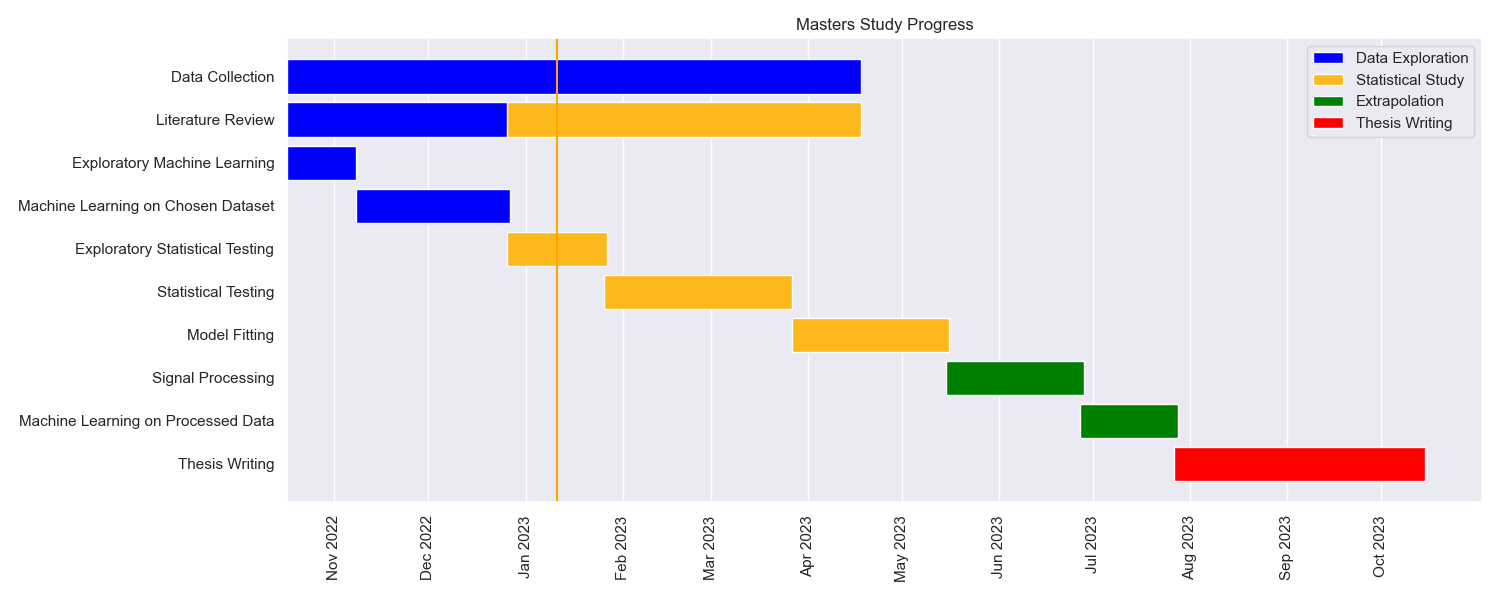
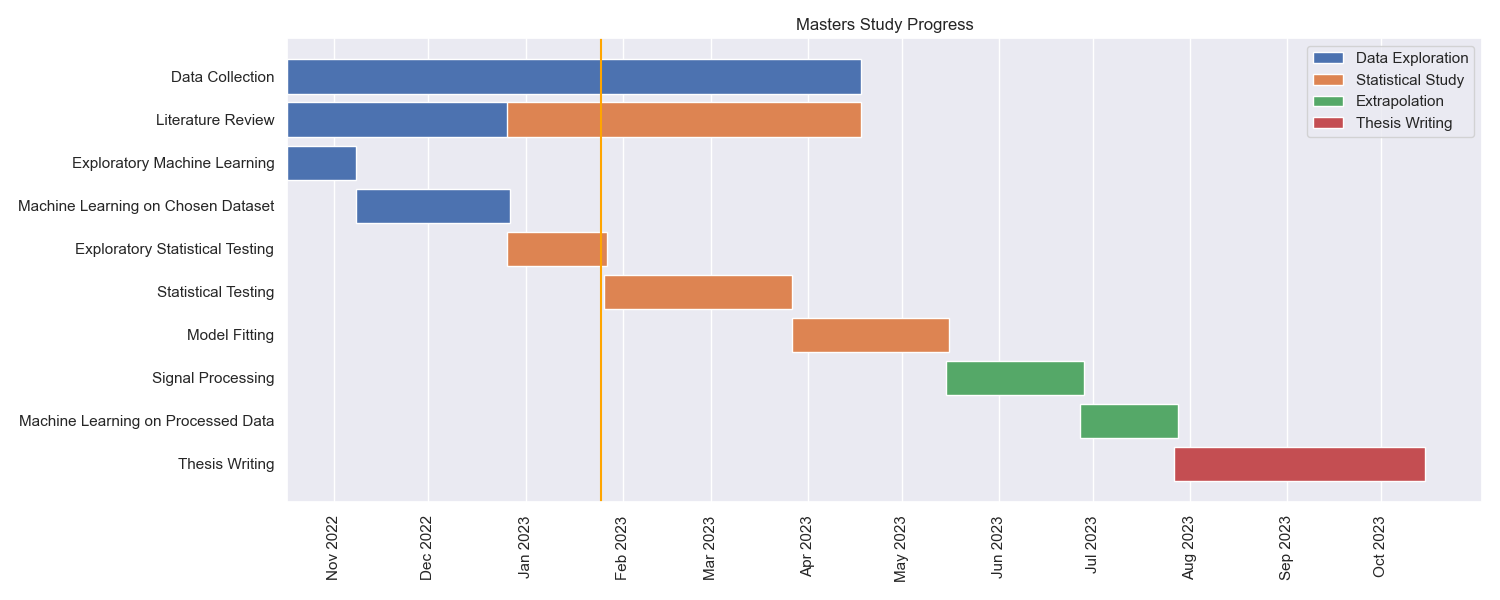
⚙ FIX: Automatically assign color

Changed region(s): [[0.184, 0.09, 0.5827, 0.39], [0.3373, 0.39, 0.9507, 0.81], [0.8587, 0.09, 0.92, 0.21]]

diff --git a/scripts/gantt.py b/scripts/gantt.py
@@ -60,17 +60,24 @@ def generate_gantt(
 
     now = (pd.Timestamp.today() - thesis_start).days
 
+    legend_colors = {
+        phase: sns.color_palette()[idx]
+        for idx, phase in enumerate(progress["phase"].unique())
+    }
+
+    progress["color"] = [legend_colors[key] for key in progress["phase"]]
+
     plt.figure(figsize=(15, 6))
     if label is not None:
         plt.title("Masters Study Progress ({})".format(label))
     else:
         plt.title("Masters Study Progress")
     plt.barh(
-        y=progress.task,
-        left=progress.rel_start,
-        width=progress.duration,
-        color=progress.color,
-        label=progress.phase,
+        y=progress["task"],
+        left=progress["rel_start"],
+        width=progress["duration"],
+        color=progress["color"],
+        label=progress["phase"],
     )
     plt.gca().invert_yaxis()
     plt.axvline(x=now, color="orange")
@@ -81,7 +88,6 @@ def generate_gantt(
     plt.grid(axis="y")
 
     # Legends
-    legend_colors = {row.phase: row.color for row in progress.itertuples()}
     legend_elems = [
         Patch(facecolor=legend_colors[key], label=key) for key in legend_colors
     ]
